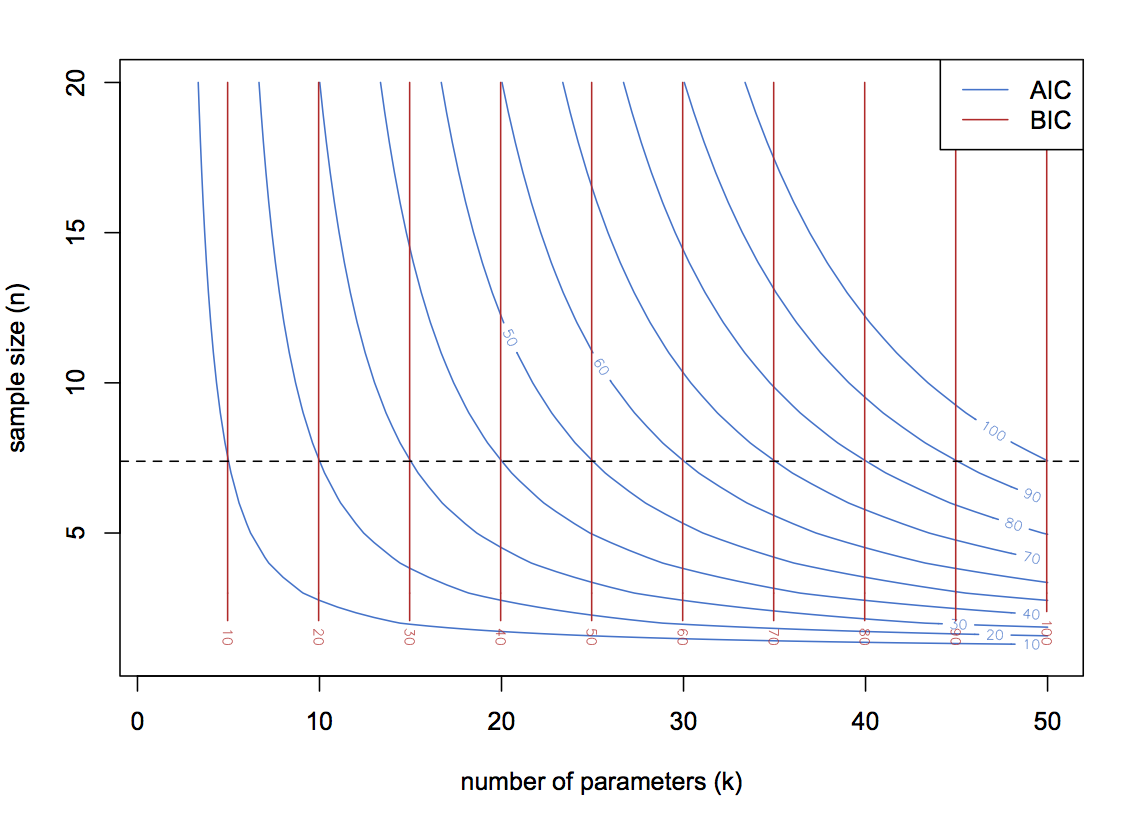
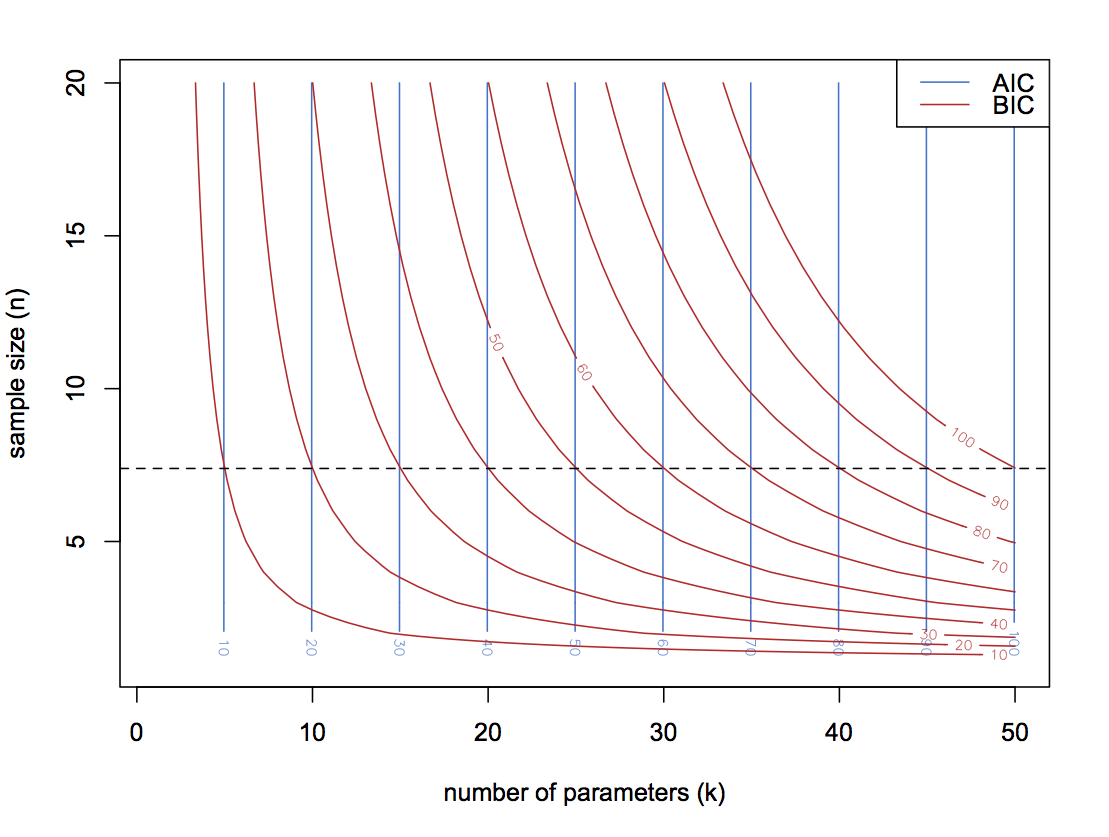
ENH - New social media kits
+ some error in AIC vs BIC plot
+ made a gist for the plot

diff --git a/_layouts/post.html b/_layouts/post.html
@@ -3,7 +3,7 @@ layout: default
 ---
 
 <div class="post">
-  <h2 class="post-title">{{ page.title }}</h2>
+  <h1 class="post-title">{{ page.title }}</h1>
   <span class="post-date">{{ page.date | date_to_string }}</span>
   {{ content }}
 </div>
@@ -11,21 +11,3 @@ layout: default
 {% if page.comments == true %}
   {% include comments.html %}
 {% endif %}
-
-<!--
-<div class="related">
-  <h2>Related Posts</h2>
-  <ul class="related-posts">
-    {% for post in site.related_posts limit:3 %}
-      <li>
-        <h3>
-          <a href="{{ site.baseurl }}{{ post.url }}">
-            {{ post.title }}
-            <small>{{ post.date | date_to_string }}</small>
-          </a>
-        </h3>
-      </li>
-    {% endfor %}
-  </ul>
-</div>
--->

diff --git a/_includes/sidebar.html b/_includes/sidebar.html
@@ -36,8 +36,16 @@
   </nav>
 
   <div class="sidebar-item">
-    <p>
-      &copy; {{ site.time | date: '%Y' }}. All rights reserved.
-    </p>
+    <div class="footer-social-icons">
+				<ul class="social-icons">
+          {% if site.author.github %}
+          <li><a href="http://github.com/{{ site.author.github }}" class="social-icon"> <i class="fa fa-github"></i></a></li>
+          {% endif %}
+          {% if site.author.googleplus %}
+					<li><a href="http://plus.google.com/{{ site.author.googleplus }}" class="social-icon"> <i class="fa fa-google-plus"></i></a></li>
+          {% endif %}
+				</ul>
+    </div>
   </div>
+
 </div>

diff --git a/_includes/head.html b/_includes/head.html
@@ -19,6 +19,7 @@
   <link rel="stylesheet" href="{{ site.baseurl }}public/css/syntax.css">
   <link rel="stylesheet" href="{{ site.baseurl }}public/css/lanyon.css">
   <link rel="stylesheet" href="http://fonts.googleapis.com/css?family=PT+Serif:400,400italic,700%7CPT+Sans:400">
+  <link rel="stylesheet" href="http://netdna.bootstrapcdn.com/font-awesome/4.0.3/css/font-awesome.css">
 
   <!-- Icons -->
   <link rel="apple-touch-icon-precomposed" sizes="144x144" href="{{ site.baseurl }}public/apple-touch-icon-precomposed.png">

diff --git a/public/css/lanyon.css b/public/css/lanyon.css
@@ -562,3 +562,32 @@ a.pagination-item:hover {
 .layout-reverse.sidebar-overlay #sidebar-checkbox:checked ~ .sidebar {
   box-shadow: -.25rem 0 .5rem rgba(0,0,0,.1);
 }
+
+/*
+ * Social media icons
+ */
+.footer-social-icons {
+	width: 100%;
+	display:block;
+  margin: 0 auto;
+  bottom: 0;
+}
+
+.social-icon {
+	color: #fff;
+}
+
+ul.social-icons {
+	margin-top: 10px;
+}
+
+.social-icons li {
+	vertical-align: top;
+	display: inline;
+  margin: 5px;
+}
+
+.social-icons a {
+	color: #fff;
+	text-decoration: none;
+}

diff --git a/404.html b/404.html
@@ -6,6 +6,6 @@ permalink: 404.html
 
 <div class="page">
   <img src="{{ base.url }}/images/{{ site.404image }}" style="width: 200px; float:left; margin-right: 2rem;">
-  <h1 class="page-title">Ooops... 404... hmmm</h1>
-  <p class="lead">I prefer donut, please. Let me point you to something that exist. It's not homer, but <a href="{{ site.baseurl }}">home</a>.</p>
+  <h1 class="page-title" style="font-size: 400%;">D'oh!<h1>
+  <p class="lead">[<code>Code 404</code>]: Can't find the page.</p>
 </div>

diff --git a/_includes/_footer.html b/_includes/_footer.html
@@ -1,0 +1,3 @@
+<footer class="fixed_footer">
+  footer
+</footer>

diff --git a/about.md b/about.md
@@ -9,7 +9,7 @@ My name is Avan Suinesiaputra, currently a researcher in medical imaging. My pro
 
 I'm keeping my digital social interaction to the bare minimum, so I don't have a Twitter, Facebook, LinkedIn or any other social media site account. Best to contact me via e-mail.
 
-Unless explicitly stated, all contents in this site are licensed under [CC BY-NC-SA 4.0][lic]. If you like the design of this blog, you can fork or clone this site from [my github page](https://github.com/avansp/avansp.github.io).
+Unless explicitly stated, all contents in this site are licensed under [CC BY-NC-SA 4.0][lic]. This blog is designed for reading pleasure. If you like the design of this blog, you can fork or clone this site from [my github page](https://github.com/avansp/avansp.github.io).
 
 [avan-uoa]: http://unidirectory.auckland.ac.nz/profile/a-suinesiaputra
 [avan-gscholar]: http://scholar.google.co.nz/citations?user=av3jfhgAAAAJ&hl=en

diff --git a/_posts/2014-11-02-DIC-AIC-BIC.md b/_posts/2014-11-02-DIC-AIC-BIC.md
@@ -38,6 +38,8 @@ Hence, BIC is more stringent than AIC for larger sample size, as the penalty inc
 
 Now, how big is the BIC penalty term compared to AIC?
 
+{% gist avansp/d3bcb6da7da98d47e71b AIC_vs_BIC.r %}
+
 ![AIC vs BIC penalty terms]({{ base.url }}/images/bic_vs_aic.png)
 
 The BIC penalty dramatically increases with only a few number of samples. BIC becomes larger than AIC when the sample size is $$n > \exp(2)$$ or $$n > 7$$ (dotted horizontal line).
